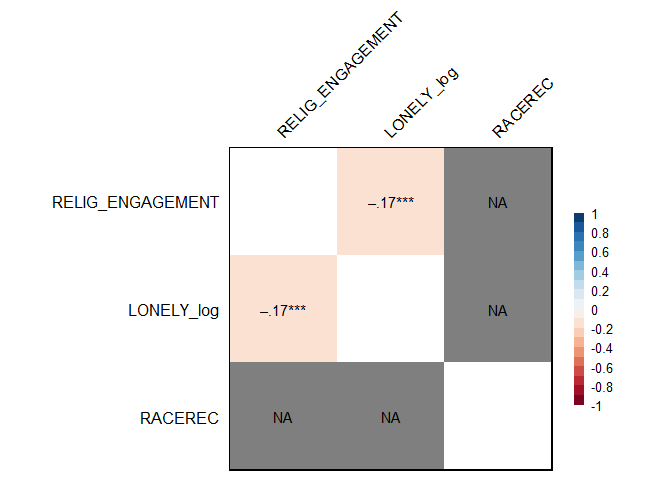
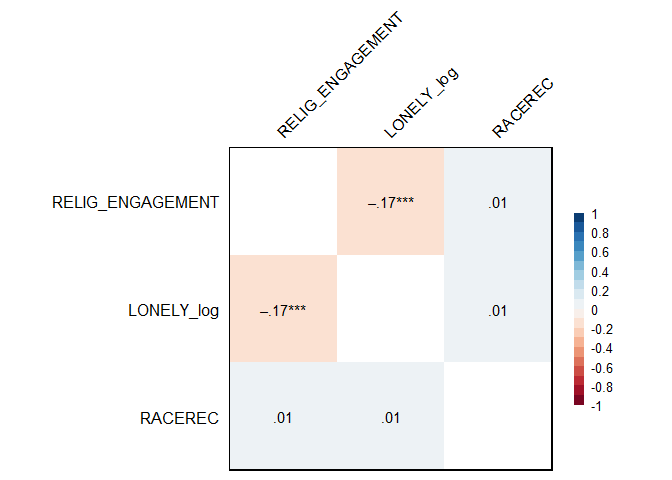
1

Changed region(s): [[0.3438, 0.2812, 0.8438, 1.0]]

diff --git a/MyProject.md b/MyProject.md
@@ -143,7 +143,7 @@ my_dataset$RELIG_ATTEND <- 6 - as.numeric(my_dataset$RELIG_ATTEND)
 my_dataset$RELIG_IMP <- 5 - as.numeric(my_dataset$RELIG_IMP)
 my_dataset$RELIG_ENGAGEMENT <- (my_dataset$RELIG_ATTEND + my_dataset$RELIG_IMP) / 2
 
-my_dataset$RACEREC <- gsub("Non-Hispanic ", "", my_dataset$RACEREC)
+levels(my_dataset$RACEREC) <- gsub("Non-Hispanic ", "", levels(my_dataset$RACEREC))
 
 my_dataset$LONELY_A <- as.numeric(my_dataset$LONELY_A)
 my_dataset$LONELY_B <- as.numeric(my_dataset$LONELY_B)
@@ -211,9 +211,6 @@ have such kurtosis.
 leveneTest(LONELY ~ RACEREC, data = my_dataset)
 ```
 
-    ## Warning in leveneTest.default(y = y, group = group, ...): group coerced to
-    ## factor.
-
     ## Levene's Test for Homogeneity of Variance (center = median)
     ##         Df F value Pr(>F)
     ## group    6  1.3081 0.2495
@@ -242,15 +239,6 @@ cor_data <- my_dataset %>% select(RELIG_ENGAGEMENT, LONELY_log, RACEREC)
 Corr(cor_data)
 ```
 
-    ## Warning in Corr(cor_data): 强制改变过程中产生了NA
-
-    ## Warning in sqrt(n - 2): 产生了NaNs
-
-    ## Warning in psych::corr.test(data.new, method = method, adjust = p.adjust, :
-    ## Number of subjects must be greater than 3 to find confidence intervals.
-
-    ## Warning in sqrt(n[lower.tri(n)] - 3): 产生了NaNs
-
     ## NOTE: `RACEREC` transformed to numeric.
     ## 
     ## Pearson's r and 95% confidence intervals:
@@ -258,8 +246,8 @@ Corr(cor_data)
     ##                                  r       [95% CI]     p        N
     ## ────────────────────────────────────────────────────────────────
     ## RELIG_ENGAGEMENT-LONELY_log  -0.17 [-0.19, -0.15] <.001 *** 7644
-    ## RELIG_ENGAGEMENT-RACEREC           [   NA,   NaN]              0
-    ## LONELY_log-RACEREC                 [   NA,   NaN]              0
+    ## RELIG_ENGAGEMENT-RACEREC      0.01 [-0.01,  0.04]  .240     7644
+    ## LONELY_log-RACEREC            0.01 [-0.01,  0.03]  .411     7644
     ## ────────────────────────────────────────────────────────────────
 
 ![](MyProject_files/figure-gfm/unnamed-chunk-6-1.png)<!-- -->
